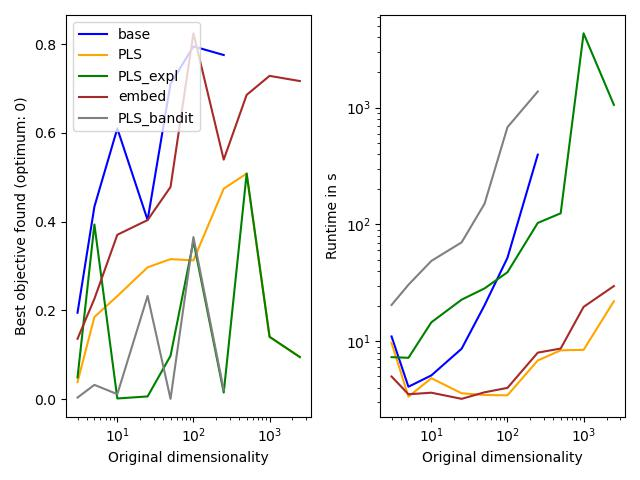
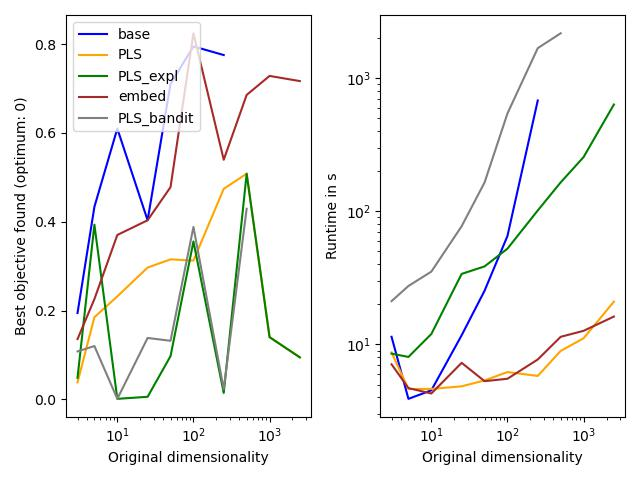
CUATRO_PLS feasability array fix and messages

diff --git a/CUATRO/minimise_methods/minimise.py b/CUATRO/minimise_methods/minimise.py
@@ -48,42 +48,42 @@ def minimise(X_samples, feas_X, infeas_X, g_array, P, q, r, bounds, center, radi
             except:
                 P = ut.make_PSD(P)
                 # logger.warn("Failed to find center by minimising quadratic surrogate (found feasible coefficients by discrimination previously). N_evals: {N_eval}. N_iter: {N_iter}")
-                print(f"Failed to find center by minimising quadratic surrogate (found feasible coefficients by discrimination previously). N_evals: {N_eval}. N_iter: {N_iter}")
+                # print(f"Failed to find center by minimising quadratic surrogate (found feasible coefficients by discrimination previously). N_evals: {N_eval}. N_iter: {N_iter}")
                 # print(P)
                 try:
                     center_ = list(ut.quadratic_min(P, q, r, center, radius, bounds, solver_to_use, \
                                ineq = ineq_list))
                 except:
                     center_ = center
-                    print(f"Failed to find center by minimising quadratic surrogate, even after updating P (found feasible coefficients by discrimination previously). N_evals: {N_eval}. N_iter: {N_iter}")
+                    print(f"Step failed to find center by minimising quadratic surrogate, even after updating P (found feasible coefficients by discrimination previously). N_evals: {N_eval}. N_iter: {N_iter}")
                     # logger.warn("Failed to find center by minimising quadratic surrogate, even after updating P (found feasible coefficients by discrimination previously). N_evals: {N_eval}. N_iter: {N_iter}")
         else:
             try:
                 center_ = list(ut.quadratic_min(P, q, r, center, radius, bounds, solver_to_use))
             except:
                 P = ut.make_PSD(P)
-                print(f"Failed to find center by minimising quadratic surrogate (failed to find feasible coefficients by discrimination previously). N_evals: {N_eval}. N_iter: {N_iter}")
+                # print(f"Failed to find center by minimising quadratic surrogate (failed to find feasible coefficients by discrimination previously). N_evals: {N_eval}. N_iter: {N_iter}")
                 # logger.warn("Failed to find center by minimising quadratic surrogate (failed to find feasible coefficients by discrimination previously). N_evals: {N_eval}. N_iter: {N_iter}")
                 # print(P)
                 try:
                     center_ = list(ut.quadratic_min(P, q, r, center, radius, bounds, solver_to_use))
                 except:
                     center_ = center
-                    print(f"Failed to find center by minimising quadratic surrogate, even after updating P (failed to find feasible coefficients by discrimination previously). N_evals: {N_eval}. N_iter: {N_iter}")
+                    print(f"Step failed to find center by minimising quadratic surrogate, even after updating P (failed to find feasible coefficients by discrimination previously). N_evals: {N_eval}. N_iter: {N_iter}")
                     # logger.warn("Failed to find center by minimising quadratic surrogate, even after updating P (failed to find feasible coefficients by discrimination previously). N_evals: {N_eval}. N_iter: {N_iter}")
     else:
         try:
             center_ = list(ut.quadratic_min(P, q, r, center, radius, bounds, solver_to_use))
         except:
             P = ut.make_PSD(P)
-            print(f"Failed to find center by minimising quadratic surrogate (all samples were feasible). N_evals: {N_eval}. N_iter: {N_iter}")
+            # print(f"Failed to find center by minimising quadratic surrogate (all samples were feasible). N_evals: {N_eval}. N_iter: {N_iter}")
             # logger.warn("Failed to find center by minimising quadratic surrogate (all samples were feasible)")
             # print(P)
             try:
                 center_ = list(ut.quadratic_min(P, q, r, center, radius, bounds, solver_to_use))
             except:
                 center_ = center
-                print(f"Failed to find center by minimising quadratic surrogate, even after updating P (all samples were feasible)). N_evals: {N_eval}. N_iter: {N_iter}")
+                print(f"Step failed to find center by minimising quadratic surrogate, even after updating P (all samples were feasible)). N_evals: {N_eval}. N_iter: {N_iter}")
                 # logger.warn("Failed to find center by minimising quadratic surrogate, even after updating P (all samples were feasible))")
     return center_
 
@@ -398,35 +398,35 @@ def minimise_PLS(X_samples, feas_X, infeas_X, g_array, P, q, r, bounds, center, 
             except:
                 P = ut.make_PSD(P)
                 # logger.warn("Failed to find center by minimising quadratic surrogate (found feasible coefficients by discrimination previously). N_evals: {N_eval}. N_iter: {N_iter}")
-                print(f"Failed to find center by minimising quadratic surrogate (found feasible coefficients by discrimination previously). N_evals: {N_eval}. N_iter: {N_iter}")
+                # print(f"Failed to find center by minimising quadratic surrogate (found feasible coefficients by discrimination previously). N_evals: {N_eval}. N_iter: {N_iter}")
                 # print(P)
                 try:
                     center_ = list(ut.quadratic_min(P, q, r, center, radius, bounds, solver_to_use, \
                                ineq = ineq_list))
                 except:
                     center_ = center
-                    print(f"Failed to find center by minimising quadratic surrogate, even after updating P (found feasible coefficients by discrimination previously). N_evals: {N_eval}. N_iter: {N_iter}")
+                    print(f"Step failed to find center by minimising quadratic surrogate, even after updating P (found feasible coefficients by discrimination previously). N_evals: {N_eval}. N_iter: {N_iter}")
                     # logger.warn("Failed to find center by minimising quadratic surrogate, even after updating P (found feasible coefficients by discrimination previously). N_evals: {N_eval}. N_iter: {N_iter}")
         else:
             try:
                 center_ = list(ut.quadratic_min(P, q, r, center, radius, bounds, solver_to_use))
             except:
                 P = ut.make_PSD(P)
-                print(f"Failed to find center by minimising quadratic surrogate (failed to find feasible coefficients by discrimination previously). N_evals: {N_eval}. N_iter: {N_iter}")
+                # print(f"Failed to find center by minimising quadratic surrogate (failed to find feasible coefficients by discrimination previously). N_evals: {N_eval}. N_iter: {N_iter}")
                 # logger.warn("Failed to find center by minimising quadratic surrogate (failed to find feasible coefficients by discrimination previously). N_evals: {N_eval}. N_iter: {N_iter}")
                 # print(P)
                 try:
                     center_ = list(ut.quadratic_min(P, q, r, center, radius, bounds, solver_to_use))
                 except:
                     center_ = center
-                    print(f"Failed to find center by minimising quadratic surrogate, even after updating P (failed to find feasible coefficients by discrimination previously). N_evals: {N_eval}. N_iter: {N_iter}")
+                    print(f"Step failed to find center by minimising quadratic surrogate, even after updating P (failed to find feasible coefficients by discrimination previously). N_evals: {N_eval}. N_iter: {N_iter}")
                     # logger.warn("Failed to find center by minimising quadratic surrogate, even after updating P (failed to find feasible coefficients by discrimination previously). N_evals: {N_eval}. N_iter: {N_iter}")
     else:
         try:
             center_ = list(ut.quadratic_min_pls(P, q, r, center, center_pls, radius, bounds, solver_to_use, pls))
         except:
             P = ut.make_PSD(P)
-            print(f"Failed to find center by minimising quadratic surrogate (all samples were feasible). N_evals: {N_eval}. N_iter: {N_iter}")
+            print(f"Step failed to find center by minimising quadratic surrogate (all samples were feasible). N_evals: {N_eval}. N_iter: {N_iter}")
             # logger.warn("Failed to find center by minimising quadratic surrogate (all samples were feasible)")
             # print(P)
             # try:

diff --git a/CUATRO/optimizer/implementations/dim_red_heuristics/CUATRO_PLS_bandit.py b/CUATRO/optimizer/implementations/dim_red_heuristics/CUATRO_PLS_bandit.py
@@ -161,7 +161,7 @@ class CUATRO_PLS_bandit(CUATRO):
                 X_samples = np.array(X_samples.copy().tolist() + X_in_trust.copy().tolist())
                 y_samples = y_samples.copy() + y_in_trust.copy().tolist()
                 g_eval = g_eval.copy() + g_in_trust.copy().tolist()
-                feas = np.array(feas_in_trust.copy().tolist() + feas.copy().tolist())
+                feas = np.array(feas.copy().tolist() + feas_in_trust.copy().tolist())
 
             else:
                 X_samples = X_in_trust.copy()
@@ -260,6 +260,7 @@ class CUATRO_PLS_bandit(CUATRO):
                     trusts[best_TR]['old_trust'] = trusts[best_TR]['candidate']
                     trusts[best_TR]['center'] = trusts[best_TR]['candidate']
                     trusts[best_TR]['old_f'] = new_f
+                    print(f'TR {best_TR} update: iteration {N}, objective {new_f:.3f}, evaluation {len(f_eval_list)}')
                 elif trusts[best_TR]['dec'] <= self.eta1*trusts[best_TR]['pred_dec']:
                     trusts[best_TR]['radius'] *= self.beta_red
                     trusts[best_TR]['center'] = trusts[best_TR]['old_trust']
@@ -267,6 +268,7 @@ class CUATRO_PLS_bandit(CUATRO):
                     trusts[best_TR]['old_trust'] = trusts[best_TR]['candidate']
                     trusts[best_TR]['center'] = trusts[best_TR]['candidate']
                     trusts[best_TR]['old_f'] = new_f
+                    print(f'TR {best_TR} update: iteration {N}, objective {new_f:.3f}, evaluation {len(f_eval_list)}')
 
 
             steps += [center]         
@@ -338,7 +340,7 @@ class CUATRO_PLS_bandit(CUATRO):
                         X_samples = np.array(X_samples.copy().tolist() + X_in_trust.copy().tolist())
                         y_samples = y_samples.copy() + y_in_trust.copy().tolist()
                         g_eval = g_eval.copy() + g_in_trust.copy().tolist()
-                        feas = np.array(feas_in_trust.copy().tolist() + feas.copy().tolist()) ### TODO
+                        feas = np.array(feas.copy().tolist() + feas_in_trust.copy().tolist())
 
                     else:
                         X_samples = np.array(X_in_trust.copy().tolist())

diff --git a/CUATRO/optimizer/implementations/dim_red_heuristics/CUATRO_embedding.py b/CUATRO/optimizer/implementations/dim_red_heuristics/CUATRO_embedding.py
@@ -165,7 +165,7 @@ class CUATRO_embedding(CUATRO):
             X_samples = np.array(X_samples.copy().tolist() + X_in_trust.copy().tolist())
             y_samples = y_samples.copy() + y_in_trust.copy().tolist()
             g_eval = g_eval.copy() + g_in_trust.copy().tolist()
-            feas = np.array(feas_in_trust.copy().tolist() + feas.copy().tolist())
+            feas = np.array(feas.copy().tolist() + feas_in_trust.copy().tolist())
 
         else:
             X_samples = X_in_trust.copy()
@@ -253,6 +253,7 @@ class CUATRO_embedding(CUATRO):
                         radius *= self.beta_inc
                         old_trust = center
                         old_f = new_f
+                        print(f'TR update: iteration {N}, objective {new_f:.3f}, evaluation {len(f_eval_list)}')
 
                     elif dec <= self.eta1*pred_dec:
                         radius *= self.beta_red
@@ -260,6 +261,7 @@ class CUATRO_embedding(CUATRO):
                     else:
                         old_trust = center
                         old_f = new_f
+                        print(f'TR update: iteration {N}, objective {new_f:.3f}, evaluation {len(f_eval_list)}')
             else:
                 radius *= self.beta_red
                 if (new_feas == 0) or (new_f - old_f > 0):
@@ -267,6 +269,7 @@ class CUATRO_embedding(CUATRO):
                 else:
                     old_trust = center
                     old_f = new_f
+                    print(f'TR update: iteration {N}, objective {new_f:.3f}, evaluation {len(f_eval_list)}')
 
             steps += [center]         
 

diff --git a/CUATRO/optimizer/implementations/dim_red_heuristics/CUATRO_PLS_explore.py b/CUATRO/optimizer/implementations/dim_red_heuristics/CUATRO_PLS_explore.py
@@ -148,7 +148,7 @@ class CUATRO_PLS_expl(CUATRO):
             X_samples = np.array(X_samples.copy().tolist() + X_in_trust.copy().tolist())
             y_samples = y_samples.copy() + y_in_trust.copy().tolist()
             g_eval = g_eval.copy() + g_in_trust.copy().tolist()
-            feas = np.array(feas_in_trust.copy().tolist() + feas.copy().tolist())
+            feas = np.array(feas.copy().tolist() + feas_in_trust.copy().tolist())
 
         else:
             X_samples = X_in_trust.copy()
@@ -241,6 +241,7 @@ class CUATRO_PLS_expl(CUATRO):
                         radius *= self.beta_inc
                         old_trust = center
                         old_f = new_f
+                        print(f'TR update: iteration {N}, objective {new_f:.3f}, evaluation {len(f_eval_list)}')
 
                     elif dec <= self.eta1*pred_dec:
                         radius *= self.beta_red
@@ -248,6 +249,7 @@ class CUATRO_PLS_expl(CUATRO):
                     else:
                         old_trust = center
                         old_f = new_f
+                        print(f'TR update: iteration {N}, objective {new_f:.3f}, evaluation {len(f_eval_list)}')
             else:
                 radius *= self.beta_red
                 if (new_feas == 0) or (new_f - old_f > 0):
@@ -255,6 +257,7 @@ class CUATRO_PLS_expl(CUATRO):
                 else:
                     old_trust = center
                     old_f = new_f
+                    print(f'TR update: iteration {N}, objective {new_f:.3f}, evaluation {len(f_eval_list)}')
 
             steps += [center]         
 

diff --git a/CUATRO/optimizer/implementations/dim_red_heuristics/CUATRO_PLS.py b/CUATRO/optimizer/implementations/dim_red_heuristics/CUATRO_PLS.py
@@ -146,7 +146,7 @@ class CUATRO_PLS(CUATRO):
             X_samples = np.array(X_samples.copy().tolist() + X_in_trust.copy().tolist())
             y_samples = y_samples.copy() + y_in_trust.copy().tolist()
             g_eval = g_eval.copy() + g_in_trust.copy().tolist()
-            feas = np.array(feas_in_trust.copy().tolist() + feas.copy().tolist())
+            feas = np.array(feas.copy().tolist() + feas_in_trust.copy().tolist())
 
         else:
             X_samples = X_in_trust.copy()
@@ -236,6 +236,7 @@ class CUATRO_PLS(CUATRO):
                         radius *= self.beta_inc
                         old_trust = center
                         old_f = new_f
+                        print(f'TR update: iteration {N}, objective {new_f:.3f}, evaluation {len(f_eval_list)}')
 
                     elif dec <= self.eta1*pred_dec:
                         radius *= self.beta_red
@@ -243,6 +244,7 @@ class CUATRO_PLS(CUATRO):
                     else:
                         old_trust = center
                         old_f = new_f
+                        print(f'TR update: iteration {N}, objective {new_f:.3f}, evaluation {len(f_eval_list)}')
             else:
                 radius *= self.beta_red
                 if (new_feas == 0) or (new_f - old_f > 0):
@@ -250,6 +252,7 @@ class CUATRO_PLS(CUATRO):
                 else:
                     old_trust = center
                     old_f = new_f
+                    print(f'TR update: iteration {N}, objective {new_f:.3f}, evaluation {len(f_eval_list)}')
 
             steps += [center]         
 

diff --git a/CUATRO/demos/run_PLS.py b/CUATRO/demos/run_PLS.py
@@ -81,6 +81,8 @@ for dim in dims:
         perf_res['base'] += [res_g['f_best_so_far'][-1]]
         time_res['base'] += [t2-t1]
 
+    if dim < 600:
+
         t0 = perf_counter()
         res_PLS_bandit = CUATRO_PLS_bandit.run_optimiser(sim=obj, x0=x0, bounds=bounds, max_f_eval=budget, rnd=0, n_pls=n_e)
         t1 = perf_counter()
